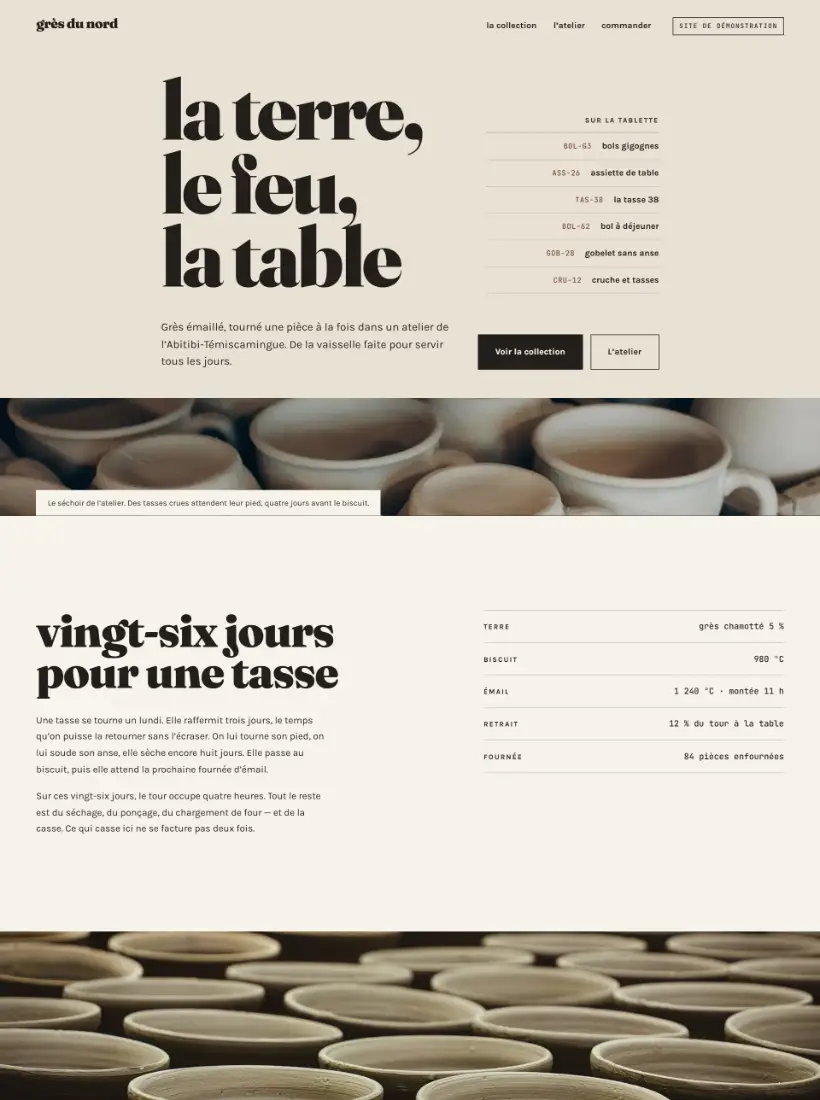
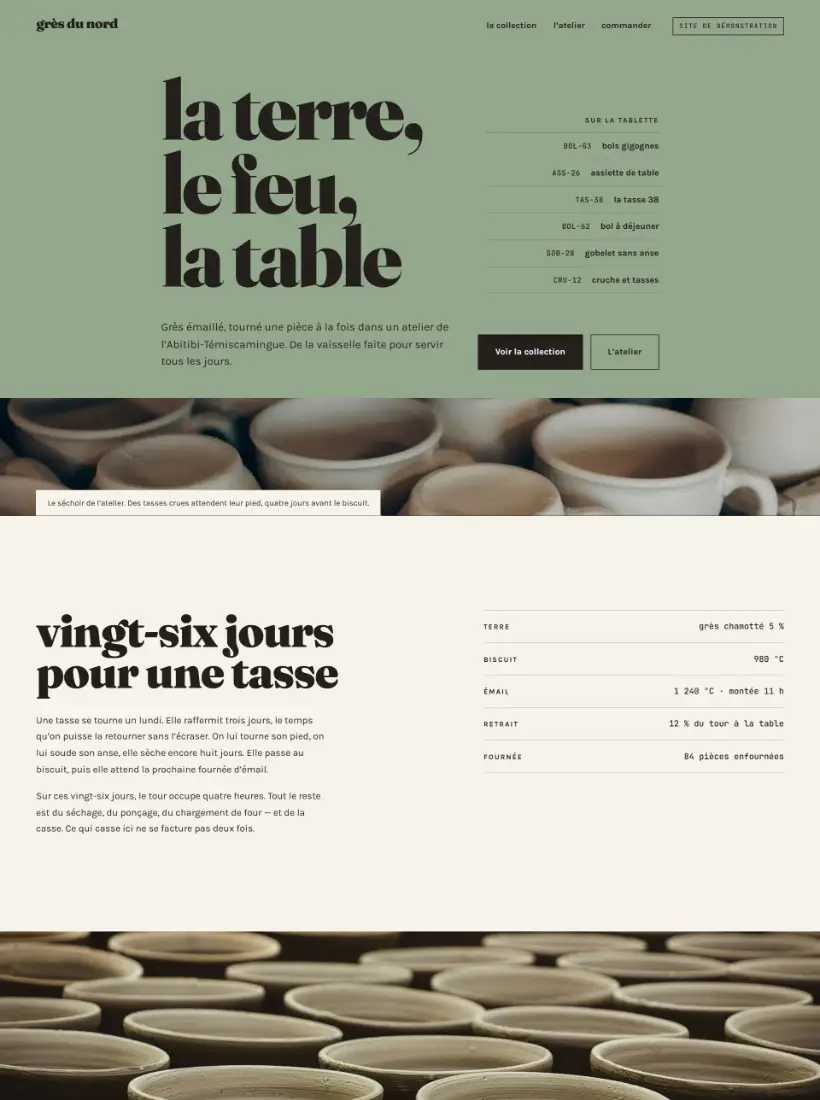
feat(boutique): le premier écran passe à l'émail, et les douze tiennent le côte-à-côte
Sur la planche des douze, la boutique et le salon de coiffure étaient
la paire la plus proche : deux clairs chauds, un serif d'affichage en
bas de casse à gauche, un bouton noir. Le reste diffère — index en
mono contre photographie pleine hauteur, argile contre blanc pur —
mais la première impression était la même famille, et la règle dit que
si deux se ressemblent, on en refait une.

Le héros prend donc le céladon. Aucun des douze n'a de premier écran
vert, et la signature du site — le fond de la page change d'émail au
défilement — se voit dès l'ouverture au lieu d'attendre le troisième
écran. L'oxyde des codes de pièce y tombait à 2,79:1 : il passe à
l'encre sur ce seul écran, la mono et la chasse suffisant à le séparer
du nom. Minimum de la page : 5,56 → 6,37:1.

DECISIONS.md D-663 à D-671 · RESERVES.md : dix-neuf réserves ouvertes,
une ligne chacune, plus les deux qui comptent le plus — les deux
projets réels se ressemblent encore (ils sont tous les deux sombres et
orange, et c'est d'eux qu'est née la contrainte imposée aux neuf
autres), et le mouvement ne se voit PAS dans l'aperçu du panneau, qui
reste une suite de captures fixes.

diff --git a/demos-secteurs/boutique/index.html b/demos-secteurs/boutique/index.html
@@ -163,7 +163,18 @@ strong{font-weight:700}
 .f-encre .btn:hover,.carte--fin .btn:hover{background-color:var(--papier);color:var(--encre)}
 
 /* ── héros ────────────────────────────────────────────────────── */
-.heros{min-height:100svh;display:flex;flex-direction:column}
+/* LE PREMIER ÉCRAN EST UN ÉMAIL, PAS LE FOND DE PAGE.
+   Sur la planche des douze, la boutique et le salon de coiffure
+   étaient la paire la plus proche : deux clairs chauds, un serif
+   d'affichage en bas de casse à gauche, un bouton noir. Le reste
+   diffère — l'un est en argile avec un index en mono, l'autre en
+   blanc avec une photographie pleine hauteur — mais la première
+   impression était la même famille.
+   Le héros prend donc le céladon. Aucun des douze n'a de premier
+   écran vert, la signature du site (« le fond change d'émail ») se
+   voit dès l'ouverture au lieu d'attendre le troisième écran, et
+   l'encre y tient 6,3:1. */
+.heros{min-height:100svh;display:flex;flex-direction:column;background-color:var(--celadon)}
 .heros-h{flex:1 1 auto;display:flex;flex-direction:column;justify-content:center;
   padding:clamp(30px,4.6vw,64px) 0 clamp(28px,3.4vw,52px)}
 .heros-h .dedans{display:grid;grid-template-columns:minmax(0,1fr) auto;
@@ -183,6 +194,12 @@ strong{font-weight:700}
 .index a:active{opacity:.6}
 .index b{font-family:var(--mono);font-weight:500;font-size:11.5px;letter-spacing:.04em;
   order:-1;color:var(--oxyde)}
+/* L'oxyde ne descend qu'à 2,79:1 sur le céladon — il tenait 5,56:1
+   sur l'argile, et c'était le minimum de toute la page. Sur l'émail
+   du héros le code passe donc à l'encre : la mono et la chasse
+   suffisent à le séparer du nom. L'accent oxyde reste partout
+   ailleurs. */
+.heros .index b{color:var(--encre)}
 .index span{font-weight:700;font-size:13.5px}
 .heros-ph{position:relative;flex:none;height:clamp(160px,23vh,280px);overflow:hidden;
   background-color:var(--encre)}

diff --git a/RESERVES.md b/RESERVES.md
@@ -394,3 +394,60 @@ courriel n'a pas été cliqué.**
 ### La réserve qui domine tout le reste n'a pas bougé
 
 > **AUCUNE mesure de ce projet n'a été prise sur un appareil réel.**
+
+---
+
+## Les douze secteurs, 2026-08-01 — ce qui reste ouvert
+
+### Deux des douze se ressemblent encore, et ce sont les deux projets RÉELS
+
+`01 Restauration` et `02 Garage` sont tous les deux sombres avec un
+orange. Sur la planche des douze c'est la paire la plus proche, et
+elle n'a pas été traitée : ce sont `restau` et `demo-carroserie`, des
+projets vivants hors de ce dépôt. Leurs typographies les séparent —
+un didone contre une grotesque condensée capitale — mais leurs
+premiers écrans se répondent. `03 Paysagement` porte un troisième
+orange. **C'est de cette collision qu'est née la contrainte imposée
+aux neuf autres : aucun n'a droit à l'orange.**
+
+### Le mouvement ne se voit pas dans l'aperçu du panneau
+
+L'aperçu de la section Secteurs est une **suite de captures fixes**
+qu'on parcourt à la molette (D-653). Les animations écrites dans les
+douze sites — parallaxe, volet, masque qui monte, compteurs qui
+roulent — n'y jouent pas : ce qui bouge dans le panneau, c'est le
+défilement. Les tuiles sont photographiées **pendant** que la page
+défile, donc elles montrent des états animés réels, mais **le
+visiteur ne voit un mouvement que s'il ouvre le site.** Changer ça
+demanderait des `<iframe>` vivantes dans la page d'accueil, ce que
+l'architecture actuelle refuse.
+
+### Ce que les neuf sessions ont laissé ouvert, une ligne chacune
+
+| Site | Réserve |
+|---|---|
+| Boutique | L'atelier est la section la plus faible — trois rangs alternés qui ressemblent à une mise en page d'article. Les cartes de la collection ne sont pas cliquables : il n'existe pas de page produit |
+| Boutique | Le changement de fond au défilement **ne se voit pas dans une capture pleine page** : Playwright photographie au défilement 0. La signature est vraie à l'écran, mesurée aux quatre étapes |
+| Coiffure | `coiffure-7` (les pinceaux) est un macro flou ; en noir et blanc il reste plus graphique que descriptif. La plus faible des neuf. Les fauteuils du héros sont encore sous film de protection |
+| Hébergement | Le calendrier annonce des disponibilités **inventées** ; c'est écrit à sa légende. Les intertitres sont en cormorant capitales 18 px — une antique très fine à petite taille, le texte le plus délicat du site |
+| Hébergement | `mix-blend-mode: color` à 44 % refroidit fortement la salle à manger, d'origine très chaude. C'est le cliché qui souffre le plus du virage |
+| Gym | `timeline-scope` demande Chrome 116+, `animation-timeline` seul 115. Entre les deux versions, les compteurs et la jauge du rail restent à leur forme finale — l'information ne se perd pas, le mouvement oui. Le `@supports` ne couvre pas ce trou d'une version |
+| Gym | `gym-3` porte des chiffres et un « PRO » moulés sur les disques ; illisibles après duotone, mais non validés comme absence de marque |
+| Clinique | La photo du héros porte au fond, hors focus, une pancarte « JALE » — une quarantaine de pixels sur 1920, en espagnol, sur un site qui se dit québécois. Jugée illisible à l'écran, pas retouchée |
+| Clinique | Quatre des sept photos sont des corridors ; `clinique-2` est très floue. Elle sert de bande de respiration plutôt que de vignette |
+| Immobilier | `immobilier-4` porte une plaque de numéro civique près du garage — illisible (≈ 12 px à l'affichage), mais elle est là. Le cadrage 4:3 ne permet pas de la couper sans amputer la façade |
+| Immobilier | La couverture reste une photo de plein jour sur une page qui se voulait « éclairée à la lampe ». La phrase a été retirée plutôt que le filtre poussé — un filtre ne transforme pas une pièce en lumière naturelle en pièce à la lampe sans mentir sur la pièce |
+| Juridique | La trame d'impression à 45 % reste franchement visible sur les zones claires de la colonnade. C'est le comportement d'un vrai écran d'impression ; elle se baisse d'une valeur si on la trouve bruyante |
+| Juridique | Vingt mesures de contraste sont **approchées** et non exactes : le papier porte un dégradé, et la remontée s'arrête dessus |
+| Construction | Le « surlignage cyan sur les arêtes » écrit dans la DA **n'est pas fait** — impossible en CSS pur sans détection de contours. Remplacé par une trame cyan posée sur chaque photo. Ce n'est pas ce qui était écrit |
+| Construction | Le décalage des sept étapes n'est visible que sur les **trois premières** : les quatre suivantes finissent leur course avant d'être vraiment à l'écran. Élargir la plage rendrait le mouvement plus voyant mais risquerait une capture à mi-course |
+| Construction | `construction-5` porte un casque jaune au bas de l'image ; le virage bleu le désature au point qu'il ne se lit plus. Gardé parce que la photo était assignée |
+| Construction | 109 mesures de contraste **approchées** : le quadrillage de plan est un dégradé posé sur toute la page |
+| Photographe | `photo-1` et `photo-2` portent une étiquette de texte sur une torche, illisible même à 5×. Employées en second plan, jamais en plein cadre. Si l'interdit « rayon appareil photo » couvre aussi une inscription illisible, il faut les retirer — **et il n'y a rien pour les remplacer** |
+| Photographe | La capture pleine page ne montre que l'œuvre `01` de la série : c'est inhérent à un défilement latéral, pas un défaut |
+
+### La réserve qui domine, et elle n'a pas bougé
+
+**AUCUNE de ces douze pages n'a été vue sur un appareil réel.** Tout
+vient de Chromium sous Playwright sur un poste de bureau Windows,
+relevés « 320 px » et « 390 px » compris.

diff --git a/DECISIONS.md b/DECISIONS.md
@@ -556,3 +556,25 @@ la bordure d'un négatif ; en coiffure elle est partout parce qu'un
 salon est un mur de produits ; en hôtellerie le piège n'est pas la
 marque mais le **climat** ; en clinique c'est le **visage**, parce
 qu'un visage dans une salle d'attente est une donnée de santé.
+
+---
+
+## Les douze secteurs, chacun son identité — 2026-08-01
+
+Les neuf sites écrits ici étaient **le même document en neuf
+couleurs** : sections numérotées `01`→`10`, filets de 1 px,
+micro-libellés mono, encre et accent chaud, tableaux. L'identité
+d'APED avec d'autres mots. Une section qui doit prouver qu'on sait
+faire n'importe quel style prouvait exactement l'inverse.
+
+| ID | Décision |
+|---|---|
+| D-663 | **Aucun site de secteur ne porte l'identité d'APED**, et les interdits d'APED — rayon 0, aucune ombre, aucun dégradé, aucun flou — **ne s'appliquent PLUS à l'intérieur d'un site de secteur.** Ils sont là pour montrer notre étendue. La clinique est le seul site à coins arrondis et à ombres douces, et c'est ce qui la rend reconnaissable à trois mètres. Le site APED, lui, les garde tous |
+| D-664 | **Les douze directions artistiques s'écrivent ENSEMBLE, avant de coder** — `demos-secteurs/DIRECTIONS.md`. Une DA ne se juge pas seule : elle se juge à côté des onze autres. Le document porte la carte des collisions surveillées (deux sombres froids, deux clairs chauds, deux clairs froids) et dit comment chacune est tenue. Trois des douze sont des projets réels et portent déjà de l'orange : **aucun des neuf autres n'y a droit** |
+| D-665 | **Le mouvement se fait en CSS pur, et le `<script>` reste à zéro.** `animation-timeline: view()` et `scroll()` donnent des révélations au défilement, des parallaxes, des compteurs qui roulent et des barres qui se remplissent sans un octet de JavaScript. Une page sans script ne peut pas avoir d'erreur console, et son mouvement tourne sur le compositeur. Chaque site a **son** langage : masque qui monte au salon, volet depuis le centre à l'immobilier, colonne par colonne au cabinet, cote qui se trace au chantier, fondu long et rien d'autre à la galerie |
+| D-666 | **`animation-fill-mode: forwards`, jamais `both`.** Avec `both`, tout ce qui est sous la ligne de flottaison garde son état de départ — `opacity: 0` — et une capture pleine page rend la moitié du site VIDE. Aucune sonde ne le voit : le DOM est complet, les images sont chargées, le texte est là, il est seulement transparent. Deux sessions sont tombées dessus séparément. Piège 64 |
+| D-667 | **`tools/demos-controle.mjs` vérifie ce qu'une capture ne montre pas** : prix affiché, `<script>`, requête tierce, `noindex`, mention de démonstration, `@keyframes` présentes, dimensions sur chaque image, erreurs console, débordement de 320 à 1920. Il a trouvé un gym sans `noindex` et **cinquante-quatre prix répartis sur huit sites**, alors que l'interdit était écrit depuis le premier jour. `tools/demos-contraste.mjs` s'y ajoute : neuf palettes écrites à la main, un accent qui passe sur un fond ne passe pas forcément sur l'autre |
+| D-668 | **Atelier Lumen change de métier plutôt que de mentir.** Le site annonçait « portrait d'entreprise, architecture, produit » et ne montrait que du matériel de studio. Aucune source libre ne donne un portrait sans visage identifiable ; annoncer une prestation de portrait sans une seule image de portrait est une fausseté par omission. L'atelier fait désormais de l'architecture, de l'intérieur et de l'objet — trois pratiques qui se photographient sans personne dedans — et huit œuvres s'ajoutent |
+| D-669 | **Le Cabinet Vallières garde ses cinq photos, et c'est une décision.** Trente-quatre candidats regardés pour en ajouter, aucun retenu : un rayon de bibliothèque est un mur de marques (titres lisibles, logos d'éditeur, codes à barres, un portrait de personne réelle en couverture), les salles de réunion libres sont meublées en orange, les stores d'ordinateur n'ont pas de sujet. Une page de quotidien porte peu d'images et beaucoup de texte. **« On n'invente jamais du contenu pour occuper de l'espace » vaut aussi pour les images** |
+| D-670 | **La ligne « pas de colonnade » est levée et réécrite.** Elle interdisait la colonnade parce qu'un avocat photographié devant des colonnes est le cliché du métier. Quatre des cinq photos disponibles SONT de l'architecture classique. Ce qui a été retenu : une colonnade en duotone bordeaux tramé n'est plus un cliché de cabinet, c'est un ornement de une — à condition que la légende dise que ce n'est pas le bureau. **La ligne interdit l'homme devant les colonnes, pas la colonne** |
+| D-671 | **Le premier écran de la boutique passe au céladon.** Sur la planche des douze, la boutique et le salon de coiffure étaient la paire la plus proche : deux clairs chauds, un serif d'affichage en bas de casse à gauche, un bouton noir. Le reste diffère — index en mono contre photographie pleine hauteur, argile contre blanc pur — mais la première impression était la même famille. Le héros prend donc l'émail : aucun des douze n'a de premier écran vert, et la signature du site (« le fond change d'émail au défilement ») se voit dès l'ouverture au lieu d'attendre le troisième écran. L'oxyde des codes y tombant à 2,79:1, il passe à l'encre sur ce seul écran |
